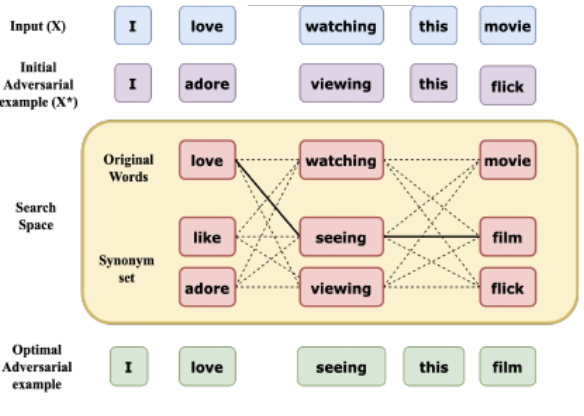
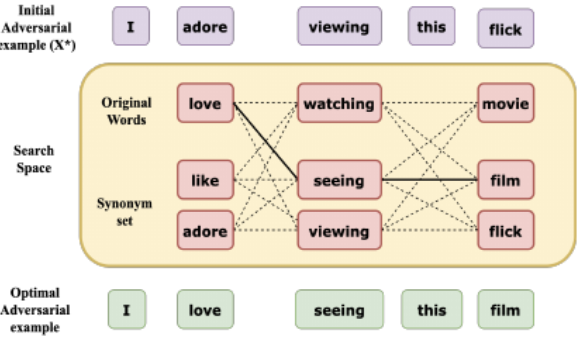
Updates to website

diff --git a/index.html b/index.html
@@ -11,6 +11,8 @@
     }
 </style>
 <head>
+    <link href="https://fonts.googleapis.com/css2?family=IBM+Plex+Mono:wght@400;600&display=swap" rel="stylesheet">
+
 
     <!-- Basic Page Needs
     –––––––––––––––––––––––––––––––––––––––––––––––––– -->
@@ -52,7 +54,7 @@
 
 <!-- Primary Page Layout
 –––––––––––––––––––––––––––––––––––––––––––––––––– -->
-<div class="container">
+<div class="container" style="max-width: 1100px;">
     <!-- <nav class="navbar">
         <ul class="navbar-list">
             <li class="navbar-item"><a href="/blog">Blog</a> </li>
@@ -73,15 +75,12 @@
             <!-- <span style="font-size: smaller;"><a href="docs/CoverLetter-Rishabh.pdf"><i
                 class="fas fa-file-alt"></i> Cover letter</a></span> -->
         </div>
-        <div class="three columns">&nbsp;</div>
         <div class="nine columns intro">
             <p>
-                My research interests broadly encompass training, alignment, and benchmarking of language models. With
-                the growing integration of AI into our day to day lives, I am passionate about developing AI systems that
-                are safe, robust and reliable.
+               My research encompass training, alignment, and benchmarking of language models. With the growing integration of AI into our daily lives, I am passionate about developing safe and robust AI systems.
             </p>
             <p>
-                I am currently part of the CoreLLM research group at <a href="https://www.servicenow.com/">ServiceNow</a> where my work focuses on enhancing the overall capabilities of language models.
+                I am currently part of the research group at <a href="https://www.servicenow.com/research/">ServiceNow</a> where my work focuses on enhancing LLMs in post-training phase through data curation, alignment, tool-augmented reasoning, and benchmarking.
                 Prior to that, I was an <a href="https://ai.facebook.com/join-us/residency-program/">AI Resident</a> 
                 at <a href="https://ai.facebook.com/research/">Facebook AI Research</a>, where I worked with <a href="https://rohrbach.vision/">Marcus Rohrbach</a> 
                 on developing models with Multimodal understanding of vision and language content. 
@@ -138,33 +137,76 @@
             <hr/>
             <div class="row publication">
                 <div class="pub-image three columns">
+                    <img src="img/qa.png", class="zoom"> <!-- Adjust width and height as needed -->
+                </div>
+                <div class="pub-desc nine columns">
+                    <span class="pub-title"><a href="https://arxiv.org/abs/2505.16293">
+                        Augmenting LLM Reasoning with Dynamic Notes Writing for Complex QA</a></span> 
+
+                    <div class="pub-authors"><span class="fw6">Rishabh Maheshwary</span>, Masoud Hashemi, Khyati Mahajan, Shiva Krishna Reddy Malay, Sai Rajeswar, Sathwik Tejaswi Madhusudhan, Spandana Gella, Vikas Yadav
+                    </div>
+                    <span class="pub-venue">Under Submission in ARR</span>
+                </div>
+            </div> 
+            <div class="row publication">
+                <div class="pub-image three columns">
+                    <img src="img/mrewardbench.png", class="zoom"> <!-- Adjust width and height as needed -->
+                </div>
+                <div class="pub-desc nine columns">
+                    <span class="pub-title"><a href="https://arxiv.org/abs/2410.15522">
+                        M-RewardBench: Evaluating Reward Models in Multilingual Settings</a></span>
+                    <div class="pub-authors">Srishti Gureja, Lester James V. Miranda, Shayekh Bin Islam, <span class="fw6">Rishabh Maheshwary</span>, Drishti Sharma, Gusti Winata, Nathan Lambert, Sebastian Ruder, Sara Hooker, Marzieh Fadaee
+                    </div>
+                    <span class="pub-venue">ACL 2025</span>
+                    <div class="pub-code"><span><a href="https://hf.co/datasets/C4AI-Community/multilingual-reward-bench">Dataset</a> | <a href="https://github.com/for-ai/m-rewardbench">Code</a></span> | <a href="https://m-rewardbench.github.io/">Website</a></span>
+                </div>
+            </div>
+            </div>  
+            <div class="row publication">
+                <div class="pub-image three columns">
+                    <img src="img/include.png", class="zoom"> <!-- Adjust width and height as needed -->
+                </div>
+                <div class="pub-desc nine columns">
+                    <span class="pub-title"><a href="https://openreview.net/forum?id=k3gCieTXeY">
+                        Include: Evaluating Multilingual Language understanding with Regional Knowledge</a></span>
+                    <div class="pub-authors"><span class="fw6">Core Contributor</span>
+                    </div>
+                    <span class="pub-venue">ICLR 2025</span>
+                    <div class="pub-code"><span><a href="https://huggingface.co/datasets/CohereForAI/include-base-44">Dataset</a> | <a href="https://github.com/Cohere-Labs-Community/global-exams">Code</a></span>
+                </div>
+            </div>
+            </div>  
+            <div class="row publication">
+                <div class="pub-image three columns">
+                    <img src="img/curri_dpo.png" class="zoom">
+                </div>
+                <div class="pub-desc nine columns">
+                    <span class="pub-title"><a href="https://arxiv.org/abs/2403.07230">
+                        Enhancing Alignment using Curriculum Learning & Ranked Preferences</a></span>
+                        <div class="pub-authors">Pulkit Pattnaik, <span class="fw6">Rishabh Maheshwary</span>, Kelechi Ogueji, Vikas Yadav, Sathwik Tejaswi Madhusudhan
+                        </div>
+                    <span class="pub-venue">EMNLP 2024</span>
+                    <div class="pub-code"><span><a href="https://huggingface.co/datasets/ServiceNow-AI/Curriculum_DPO_preferences">Dataset</a>
+                </div>
+            </div>
+            </div>
+            <div class="row publication">
+                <div class="pub-image three columns">
                     <img src="img/m2lingual.png", class="zoom"> <!-- Adjust width and height as needed -->
                 </div>
                 <div class="pub-desc nine columns">
                     <span class="pub-title"><a href="https://arxiv.org/abs/2406.16783">
-                        M2Lingual: Enhancing Multilingual, Multi-Turn Instruction Alignment in Large Language Models.</a></span>
+                        M2Lingual: Enhancing Multilingual, Multi-Turn Instruction Alignment in Large Language Models</a></span>
                     <div class="pub-authors"><span class="fw6">Rishabh Maheshwary</span>, Vikas Yadav, Hoang Nguyen, Khyati Mahajan, Sathwik Tejaswi Madhusudhan
                     </div>
-                    <span class="pub-venue">Under Submission in NeurIPS, 2024, Dataset and Benchmark track.</span>
+                    <span class="pub-venue">NAACL 2025</span>
                     <div class="pub-code"><span><a href="https://huggingface.co/datasets/ServiceNow-AI/M2Lingual">Dataset</a> | <a href="https://github.com/ServiceNow/M2Lingual">Code</a></span>
                 </div>
-            </div>            
+            </div> 
+            </div>           
             <div class="row publication">
                 <div class="pub-image three columns">
-                    <img src="img/curri_dpo.png">
-                </div>
-                <div class="pub-desc nine columns">
-                    <span class="pub-title"><a href="https://arxiv.org/abs/2403.07230">
-                        Curry-DPO: Enhancing Alignment using Curriculum Learning & Ranked Preferences</a></span>
-                        <div class="pub-authors">Pulkit Pattnaik, <span class="fw6">Rishabh Maheshwary</span>, Kelechi Ogueji, Vikas Yadav, Sathwik Tejaswi Madhusudhan
-                        </div>
-                    <span class="pub-venue">Arxiv preprint</span>
-                    <!-- <div class="pub-code"><span></span> -->
-                </div>
-            </div>
-            <div class="row publication">
-                <div class="pub-image three columns">
-                    <img src="img/vqa.png">
+                    <img src="img/vqa.png" class="zoom">
                 </div>
                 <div class="pub-desc nine columns">
                     <span class="pub-title"><a href="https://openaccess.thecvf.com/content/CVPR2023/papers/Dancette_Improving_Selective_Visual_Question_Answering_by_Learning_From_Your_Peers_CVPR_2023_paper.pdf">
@@ -178,7 +220,7 @@
             </div>
             <div class="row publication">
                 <div class="pub-image three columns">
-                    <img src="img/thesis.png">
+                    <img src="img/thesis.png" class="zoom">
                 </div>
                 <div class="pub-desc nine columns">
                     <span class="pub-title"><a href="docs/Evaluating_the_Robustness_of_Deep_learning_Models_for_NLP.pdf">Evaluating the Robustness of Deep learning Models for NLP</a></span><br>
@@ -187,9 +229,10 @@
                     <div class="pub-code"><span><a href="https://docs.google.com/presentation/d/19tTGz1IyTBss1h8WvMPy9H5WMjxAjy9W/edit?usp=sharing&ouid=104639979968551783603&rtpof=true&sd=true">Slides</a></span></div>
                 </div>
             </div>
+            </div>
             <div class="row publication">
                 <div class="pub-image three columns">
-                    <img src="img/da.png">
+                    <img src="img/da.png" class="zoom">
                 </div>
                 <div class="pub-desc nine columns">
                     <span class="pub-title"><a href="https://aclanthology.org/2022.naacl-main.310/">Practice Makes a 
@@ -200,9 +243,10 @@
                     <div class="pub-code"><span><a href="https://github.com/kevivk/MWP-Augmentation">Code</a> | <a href="docs/data_aug.pdf">Slides</a></span>
                 </div>
             </div>
+            </div>
             <div class="row publication">
                 <div class="pub-image three columns">
-                    <img src="img/bb.png">
+                    <img src="img/bb.png" class="zoom">
                 </div>
                 <div class="pub-desc nine columns">
                     <span class="pub-title"><a href="https://aclanthology.org/2021.emnlp-main.661">A Strong Baseline 
@@ -213,9 +257,10 @@
                     <div class="pub-code"><span><a href="https://github.com/RishabhMaheshwary/query-attack">Code</a> | <a href="docs/query.pdf">Slides</a></span>
                 </div>
             </div>
+            </div>
             <div class="row publication">
                 <div class="pub-image three columns">
-                    <img src="img/mwp.png">
+                    <img src="img/mwp.png" class="zoom">
                 </div>
                 <div class="pub-desc nine columns">
                     <span class="pub-title"><a href="https://aclanthology.org/2021.findings-emnlp.230/">Adversarial Examples 
@@ -226,9 +271,10 @@
                     <div class="pub-code"><span><a href="https://github.com/kevivk/MWP_Adversarial">Code</a></span>
                 </div>
             </div>
+            </div>
             <div class="row publication">
                 <div class="pub-image three columns">
-                    <img src="img/hl.png">
+                    <img src="img/hl.png" class="zoom">
                 </div>
                 <div class="pub-desc nine columns">
                     <span class="pub-title"><a href="https://ojs.aaai.org/index.php/AAAI/article/view/17595/17402">Generating natural language 
@@ -239,9 +285,10 @@
                     <div class="pub-code"><span><a href="https://github.com/RishabhMaheshwary/hard-label-attack">Code</a> | <a href="docs/hard_label.pdf">Slides</a> | <a href="docs/hard_label_poster.pdf">Poster</a></span>
                 </div>
             </div>
+            </div>
             <div class="row publication">
                 <div class="pub-image three columns">
-                    <img src="img/ca.png">
+                    <img src="img/ca.png" class="zoom">
                 </div>
                 <div class="pub-desc nine columns">
                     <span class="pub-title"><a href="https://ojs.aaai.org/index.php/AAAI/article/download/17916/17721">A context aware 

diff --git a/css/custom.css b/css/custom.css
@@ -1,22 +1,8 @@
 body {
     font-size: 1.8rem;
-}
-
-@font-face {
-    font-family: 'futura_ltregular';
-    src: url('../fonts/futuralt-webfont.woff2') format('woff2'),
-    url('../fonts/futuralt-webfont.woff') format('woff');
-    font-weight: normal;
-    font-style: normal;
-}
-
-@font-face {
-    font-family: 'futura_ltbook';
-    src: url('../fonts/futuralt-book-webfont.woff2') format('woff2'),
-    url('../fonts/futuralt-book-webfont.woff') format('woff');
-    font-weight: normal;
-    font-style: normal;
-
+    font-family: 'IBM Plex Mono', monospace;
+    color: #000;
+    background: #fff;
 }
 
 hr {
@@ -28,12 +14,11 @@ ul {
     padding-left: 20px;
 }
 
-h4{
-    font-family: 'futura_ltregular', sans-serif;
+h4, h5, p, .sidebar, .intro, .pub-title, .pub-venue, .pub-authors, .pub-code, .name-title, .text {
+    font-family: 'IBM Plex Mono', monospace;
 }
 
-h5{
-    font-family: 'futura_ltbook', sans-serif;
+h5 {
     font-size: 2.0rem;
 }
 
@@ -43,31 +28,27 @@ h5{
     }
 }
 
-.navbar{
+.navbar {
     position: relative;
     top: 0;
     left: 0;
     border: none;
     height: 4rem;
     margin-top: 3%;
-    font-family: 'futura_ltbook', sans-serif;
+    font-family: 'IBM Plex Mono', monospace;
 }
 
-.navbar ul{
+.navbar ul {
     list-style: none;
 }
 
-.navbar-item{
+.navbar-item {
     float: right;
     color: #c31;
 }
 
-.navbar-list{
+.navbar-list {
     padding-right: 40px;
-}
-
-p {
-    font-family: sans-serif, serif;
 }
 
 a {
@@ -75,17 +56,16 @@ a {
     text-decoration: none;
 }
 
-img {
-    max-width: 100%;
-}
-
 a:hover {
     color: #11aacc;
 }
 
+img {
+    max-width: 100%;
+}
+
 .sidebar {
     text-align: center;
-    font-family: sans-serif, serif;
     font-size: 1.8rem;
 }
 
@@ -101,17 +81,9 @@ a:hover {
     color: #c31;
 }
 
-.text {
-    font-family: sans-serif, serif;
-}
-
 .headshot {
     width: 150px;
     border-radius: 50%;
-}
-
-.intro {
-    font-family: sans-serif, serif;
 }
 
 .pub-image {
@@ -146,16 +118,14 @@ a:hover {
 
 .pub-code {
     font-size: 1.6rem;
-    padding-bottom: 20px
+    padding-bottom: 20px;
 }
 
 .pub-title {
     font-size: 1.6rem;
-    font-family: sans-serif;
 }
 
 .name-title {
-    font-family: sans-serif;
     font-weight: normal;
 }
 
